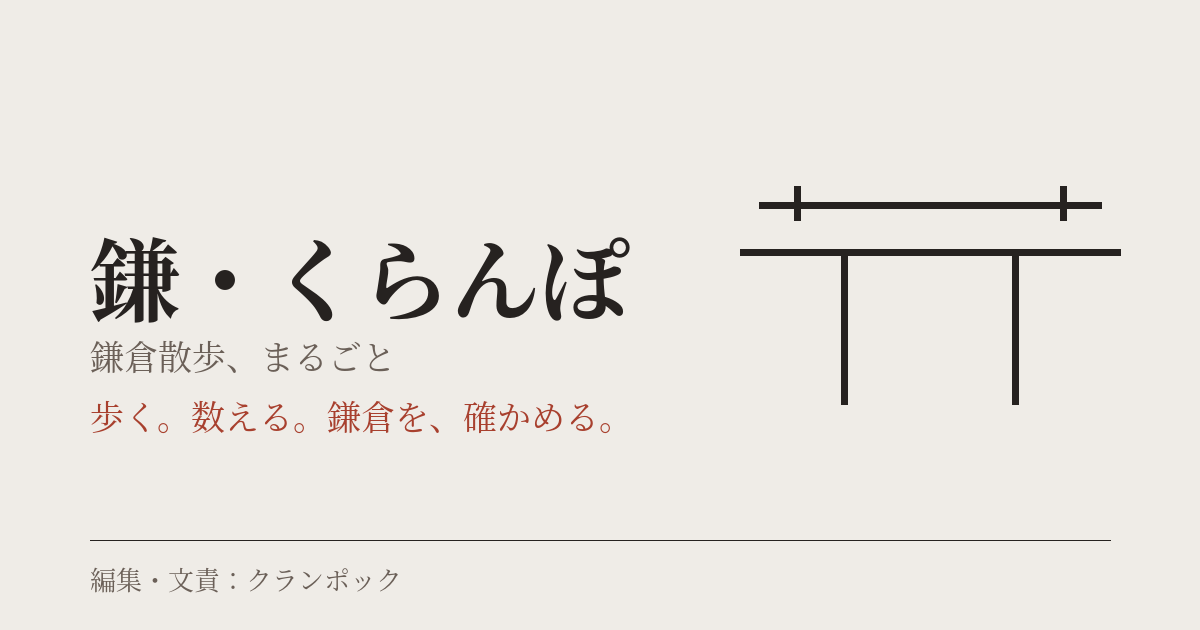
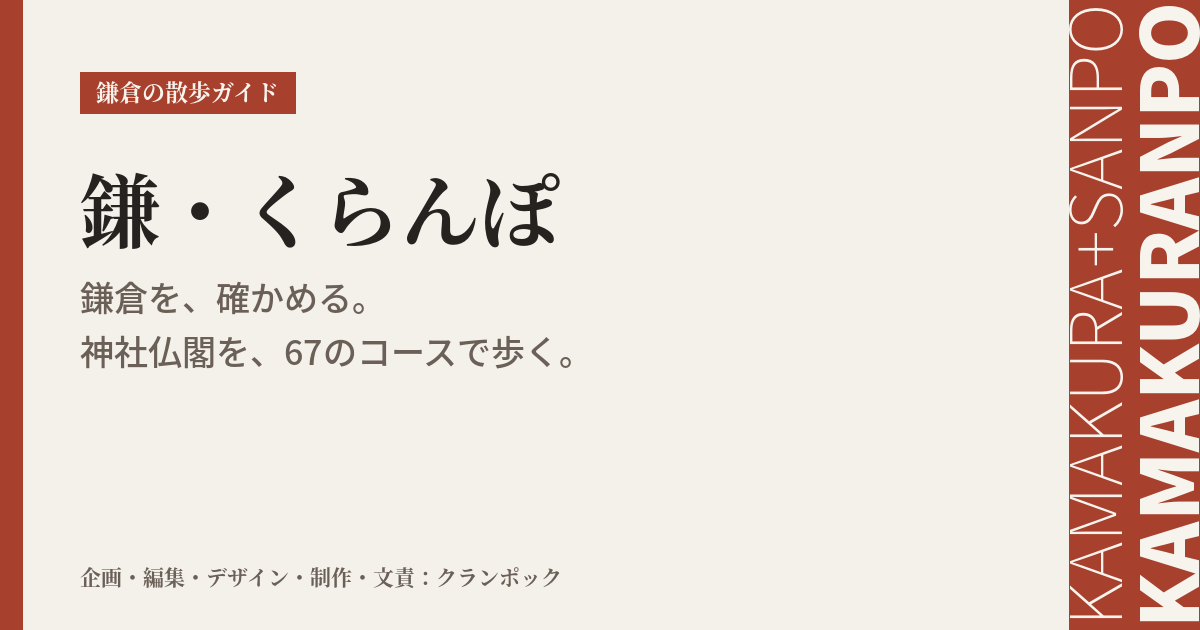
Deploy kuranpo v18.11.2 site content

diff --git a/changelog.html b/changelog.html
@@ -544,6 +544,9 @@
     <li><span class="tag">追加</span>新しいページ「古写真で歩く鎌倉」を加えました。幕末から明治に撮られた鎌倉大仏と、<ruby>神仏分離<rt>しんぶつぶんり</rt></ruby>で取り壊される前の<ruby>鶴岡八幡宮寺<rt>つるがおかはちまんぐうじ</rt></ruby>の大塔の写真を、年の順にたどります。宗教関係図と、大仏・<ruby class="o1">鶴岡八幡宮<rt>つるがおかはちまんぐう</rt></ruby>のコースページにも写真を加えています。（2026年9月25日）</li>
     <li><span class="tag">改善</span>「古写真で歩く鎌倉」に3枚を加え、7枚にしました。日下部金兵衛の鶴岡八幡宮（シラキュース大学美術館）、1902年の本と1914年の小川一真の写真集に載った大仏です。大仏は1863年から1914年まで、およそ五十年を4枚でたどれます。（2026年9月25日）</li>
     <li><span class="tag">改善</span>作り手の表記を「企画・編集・デザイン・制作・文責」に改めました。奥付・署名・構造化データ・AI向けの案内を揃えています。（2026年9月25日）</li>
+    <li><span class="tag">訂正</span>「古写真で歩く鎌倉」の共有画像が、リニューアル前の古いデザインのままだった誤りを直しました。今のデザインで作り直し、サイト共通の画像も差し替えています。（2026年9月25日）</li>
+    <li><span class="tag">訂正</span>クイズの共有画像が、基礎知識の画像を指していた誤りと、ラベルが「TOP」になっていた誤りを直しました。（2026年9月25日）</li>
+    <li><span class="tag">改善</span>サイト共通の共有画像を、トップの複製ではなく専用のものとして作り直しました。宗教関係図の共有画像のキャッチも、今の中身に合わせています。（2026年9月25日）</li>
   </ol>
   <p class="log-current">現在のバージョン：v18.10.0（2026年9月25日）</p>
 </section>

diff --git a/photos.html b/photos.html
@@ -24,16 +24,16 @@
 <meta property="og:title" content="古写真で歩く鎌倉｜鎌・くらんぽ">
 <meta property="og:description" content="幕末から大正に撮られた鎌倉大仏と鶴岡八幡宮の写真7枚を、年の順にたどります。神仏分離で取り壊される前の八幡宮の大塔や、五十年にわたる大仏の姿も。撮影者・年代・所蔵館がはっきりしたパブリックドメインの写真だけを載せています。">
 <meta property="og:url" content="https://djnaoyaman.github.io/kuranpo/photos.html">
-<meta property="og:image" content="https://djnaoyaman.github.io/kuranpo/og-image.png">
+<meta property="og:image" content="https://djnaoyaman.github.io/kuranpo/ogp/photos.png">
 <meta property="og:image:width" content="1200">
 <meta property="og:image:height" content="630">
-<meta property="og:image:alt" content="鎌・くらんぽ">
-<meta name="twitter:image:alt" content="鎌・くらんぽ">
+<meta property="og:image:alt" content="古写真で歩く鎌倉｜鎌・くらんぽ">
+<meta name="twitter:image:alt" content="古写真で歩く鎌倉｜鎌・くらんぽ">
 <meta property="og:locale" content="ja_JP">
 <meta name="twitter:card" content="summary_large_image">
 <meta name="twitter:title" content="古写真で歩く鎌倉｜鎌・くらんぽ">
 <meta name="twitter:description" content="幕末から大正に撮られた鎌倉大仏と鶴岡八幡宮の写真7枚を、年の順にたどります。神仏分離で取り壊される前の八幡宮の大塔や、五十年にわたる大仏の姿も。撮影者・年代・所蔵館がはっきりしたパブリックドメインの写真だけを載せています。">
-<meta name="twitter:image" content="https://djnaoyaman.github.io/kuranpo/og-image.png">
+<meta name="twitter:image" content="https://djnaoyaman.github.io/kuranpo/ogp/photos.png">
 <meta name="robots" content="index,follow">
 <meta name="author" content="クランポック">
 <link rel="preconnect" href="https://fonts.googleapis.com">

diff --git a/quiz.html b/quiz.html
@@ -24,7 +24,7 @@
 <meta property="og:title" content="鎌・くらんぽクイズ｜鎌・くらんぽ">
 <meta property="og:description" content="鎌倉の歴史・お寺・宗教・人物にまつわる4種類のドリル。源頼朝編・古代編など、テーマごとに1つずつ確実に学べる。全編を終えたら総合テストで確かめられる。">
 <meta property="og:url" content="https://djnaoyaman.github.io/kuranpo/quiz.html">
-<meta property="og:image" content="https://djnaoyaman.github.io/kuranpo/ogp/basics.png">
+<meta property="og:image" content="https://djnaoyaman.github.io/kuranpo/ogp/quiz.png">
 <meta property="og:image:width" content="1200">
 <meta property="og:image:height" content="630">
 <meta property="og:image:alt" content="鎌・くらんぽクイズ｜鎌・くらんぽ">
@@ -33,7 +33,7 @@
 <meta name="twitter:card" content="summary_large_image">
 <meta name="twitter:title" content="鎌・くらんぽクイズ｜鎌・くらんぽ">
 <meta name="twitter:description" content="鎌倉の歴史・お寺・宗教・人物にまつわる4種類のドリル。源頼朝編・古代編など、テーマごとに1つずつ確実に学べる。全編を終えたら総合テストで確かめられる。">
-<meta name="twitter:image" content="https://djnaoyaman.github.io/kuranpo/ogp/basics.png">
+<meta name="twitter:image" content="https://djnaoyaman.github.io/kuranpo/ogp/quiz.png">
 <meta name="robots" content="index,follow">
 <meta name="author" content="クランポック">
 <link rel="preconnect" href="https://fonts.googleapis.com">
